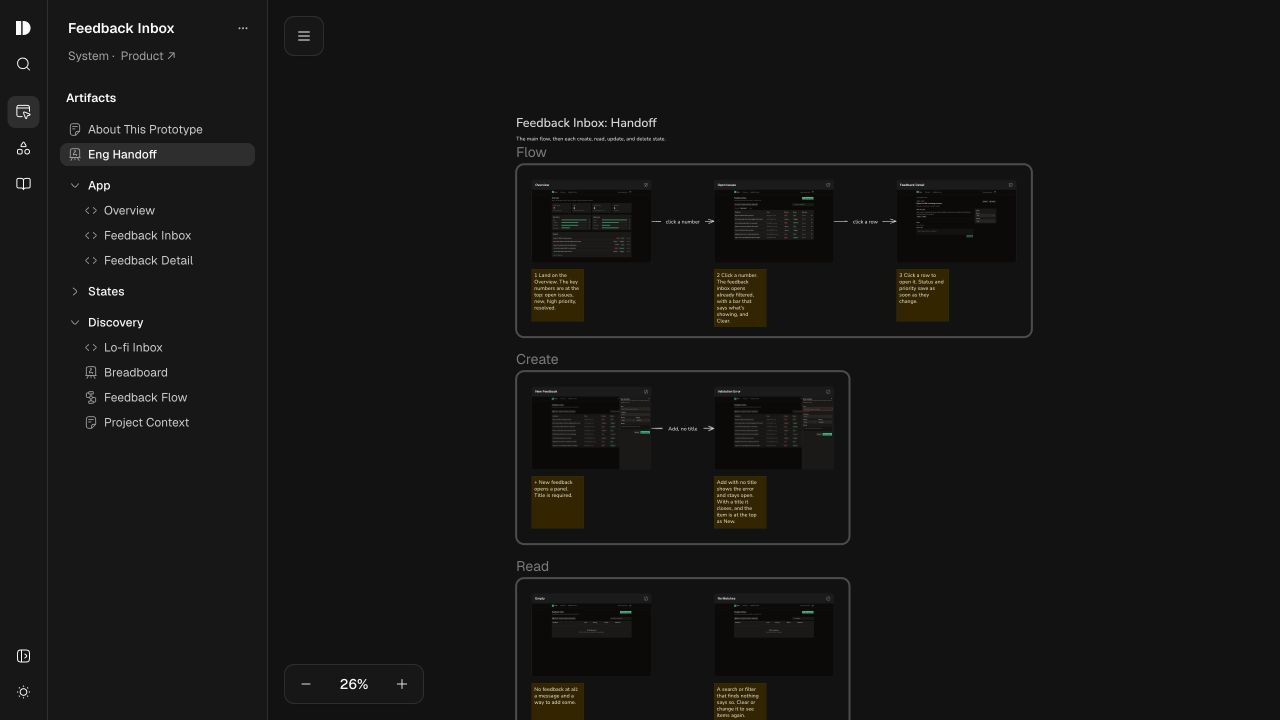
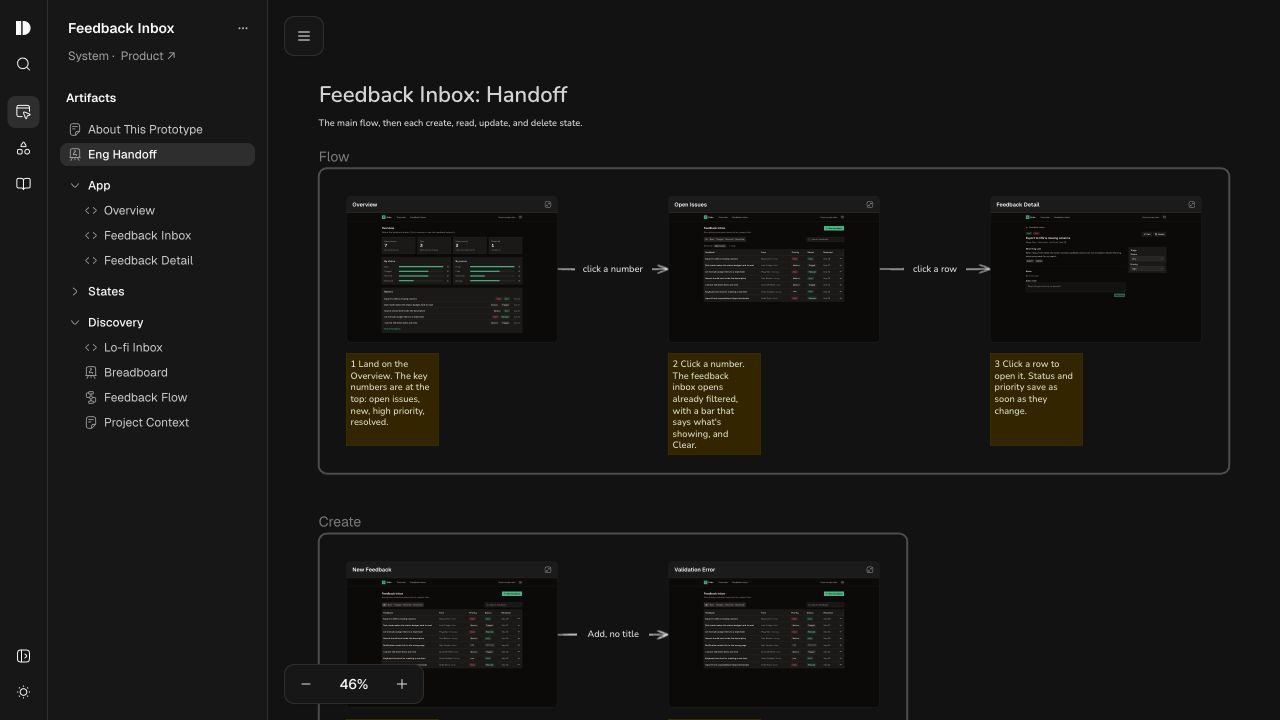
Capture a closer canvas preview for shared carousel

diff --git a/agent-os/plans/design-studio-homepage.md b/agent-os/plans/design-studio-homepage.md
@@ -79,7 +79,9 @@ publishing, and unrelated navigation refactors.
   paired captures from the same live example: `discovery/lofi-inbox`,
   `discovery/feedback-flow`, `eng-handoff`, and `discovery/project-context` below
   the prototype path; system capture from `/design-studio-starter/systems/product/button`.
-  Handoff canvas is framed at 26% zoom to show screens and notes together.
+  Handoff canvas is framed at 46% zoom to emphasize the connected main flow,
+  its notes, and the beginning of the Create group. Both themes recaptured
+  after feedback that the original 26% view was too distant.
 - `src/components/layout/Sidebar.astro`: Design Studio navigation and mark.
 - `src/data/site-config.ts`: mobile/shared navigation entry.
 - `src/components/layout/MobileNav.astro`: seventh-item entrance timing.
